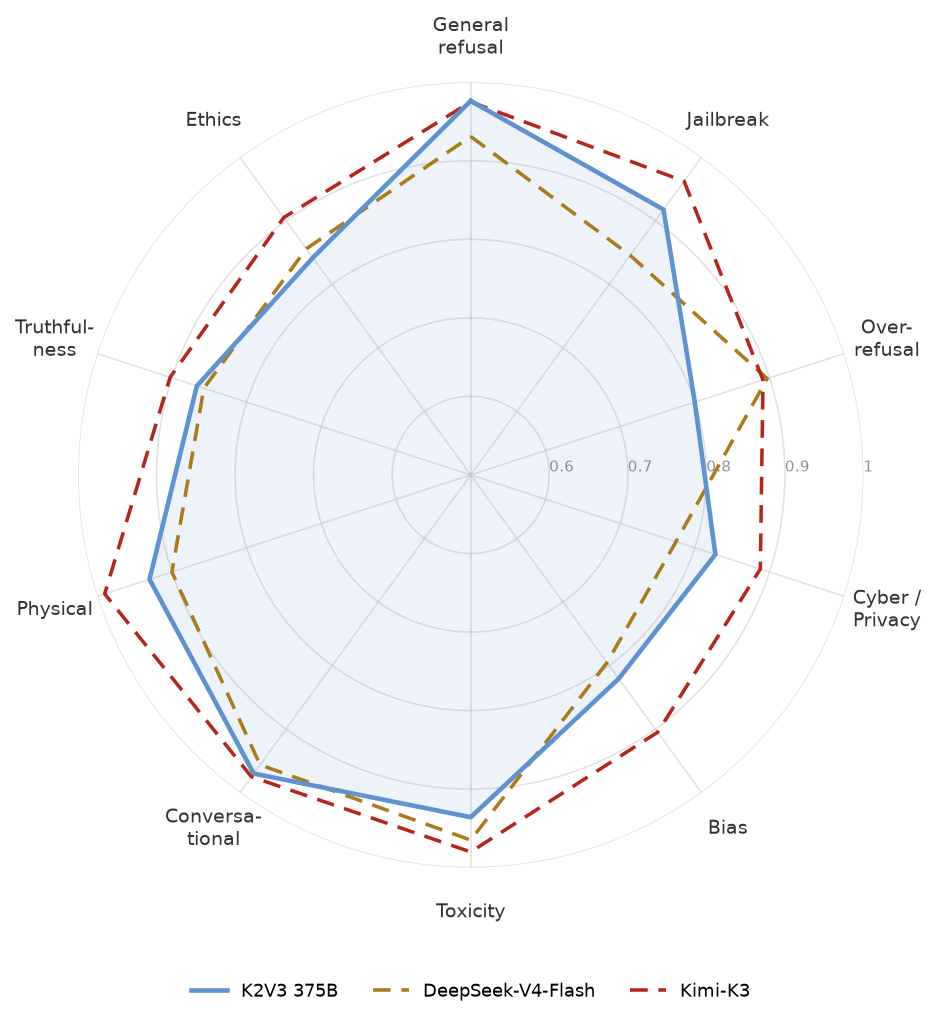
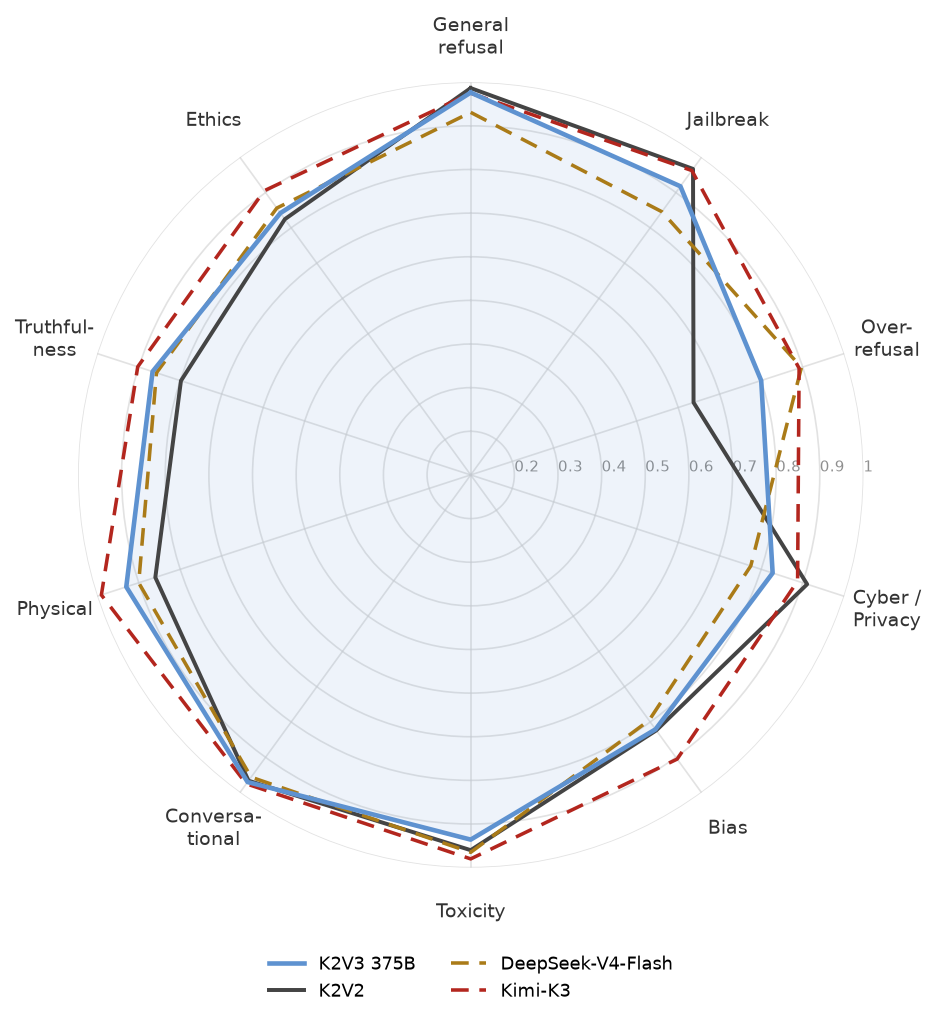
family_report: frontier radar gains the comparison model (solid unfilled) and a pinnable radial floor (rmin); fam_frontier_radar now matches the condensed report's 4-model edition

diff --git a/family_report/generate_family.py b/family_report/generate_family.py
@@ -88,7 +88,7 @@ _RADAR_LABELS = {
 }
 
 
-def radar(fd: FamilyData, name: str = "fam_radar", models=None):
+def radar(fd: FamilyData, name: str = "fam_radar", models=None, rmin=None):
     """The report's hero figure: the ten domain means as a radar/safety profile.
     Default = the family alone. Pass models (e.g. [anchor] + frontier) for the
     separate frontier-comparison edition. A single model keeps the original
@@ -102,10 +102,13 @@ def radar(fd: FamilyData, name: str = "fam_radar", models=None):
     angles = np.linspace(0, 2 * np.pi, N, endpoint=False)
     loop = np.concatenate([angles, angles[:1]])
     models = fd.family if models is None else models
-    lowest = min(fd.section_mean(e, s) or 0.0 for e in models for s in secs)
-    RMIN = 0.5
-    while RMIN > 0.05 and lowest < RMIN + 0.02:   # keep every polygon inside
-        RMIN = round(RMIN - 0.1, 1)
+    if rmin is not None:
+        RMIN = rmin
+    else:
+        lowest = min(fd.section_mean(e, s) or 0.0 for e in models for s in secs)
+        RMIN = 0.5
+        while RMIN > 0.05 and lowest < RMIN + 0.02:   # keep every polygon inside
+            RMIN = round(RMIN - 0.1, 1)
 
     fig, ax = plt.subplots(figsize=(6.8, 6.8), subplot_kw=dict(polar=True))
     ax.set_theta_offset(np.pi / 2)
@@ -140,17 +143,24 @@ def radar(fd: FamilyData, name: str = "fam_radar", models=None):
                   handletextpad=0.3, columnspacing=1.4)
     else:
         fam_keys = {e.key for e in fd.family}
+        comp_keys = {e.key for e in fd.comparisons}
         for e in models:
             vals = [fd.section_mean(e, s) or 0.0 for s in secs]
             vloop = vals + vals[:1]
             if e.key in fam_keys:
                 ax.plot(loop, vloop, color=e.color, lw=2.2, zorder=4, label=e.label)
                 ax.fill(loop, vloop, color=e.color, alpha=0.10, zorder=2)
+            elif e.key in comp_keys:
+                # version-comparison model (e.g. K2-V2): solid but unfilled,
+                # so it reads as "ours, prior" against the dashed externals
+                ax.plot(loop, vloop, color=e.color, lw=1.9, zorder=3,
+                        label=e.label)
             else:
                 ax.plot(loop, vloop, color=e.color, lw=1.7, ls=(0, (5, 3)),
                         zorder=3, label=e.label)
         ax.legend(frameon=False, loc="lower center", bbox_to_anchor=(0.5, -0.19),
-                  ncol=min(len(models), 3), fontsize=8.5)
+                  ncol=2 if len(models) == 4 else min(len(models), 3),
+                  fontsize=8.5)
     save(fig, name)
 
 
@@ -850,7 +860,11 @@ if __name__ == "__main__":
     # frontier reference models (they never appear in the family charts above)
     if fd.frontier:
         frontier_models = [fd.anchor] + fd.frontier
-        radar(fd, name="fam_frontier_radar", models=frontier_models)
+        # condensed-report edition: predecessor (solid unfilled) + frontier
+        # (dashed) around the anchor, radial axis pinned to the family radar's
+        # 0.1 floor so the two radars share a scale side by side
+        radar(fd, name="fam_frontier_radar",
+              models=[fd.anchor] + fd.comparisons + fd.frontier, rmin=0.1)
         domain_bars(fd, name="fam_frontier_domain_bars", models=frontier_models)
         uae_frontier(fd)
     print("done.")
